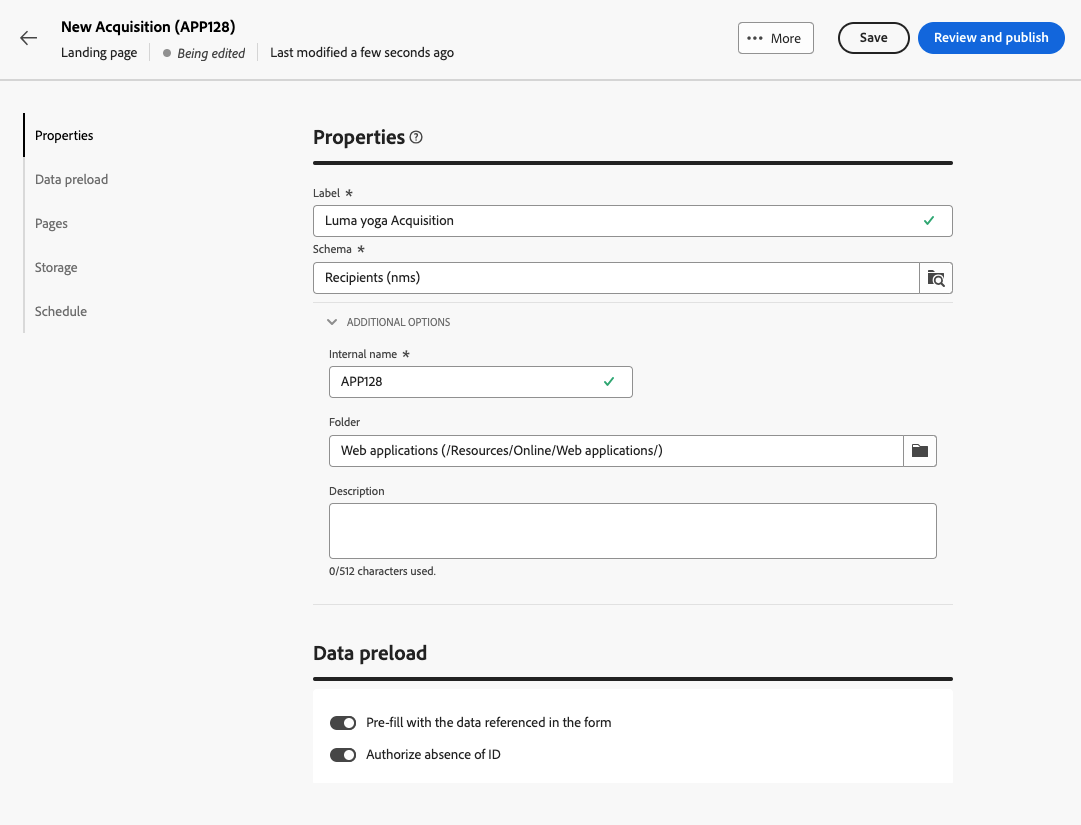
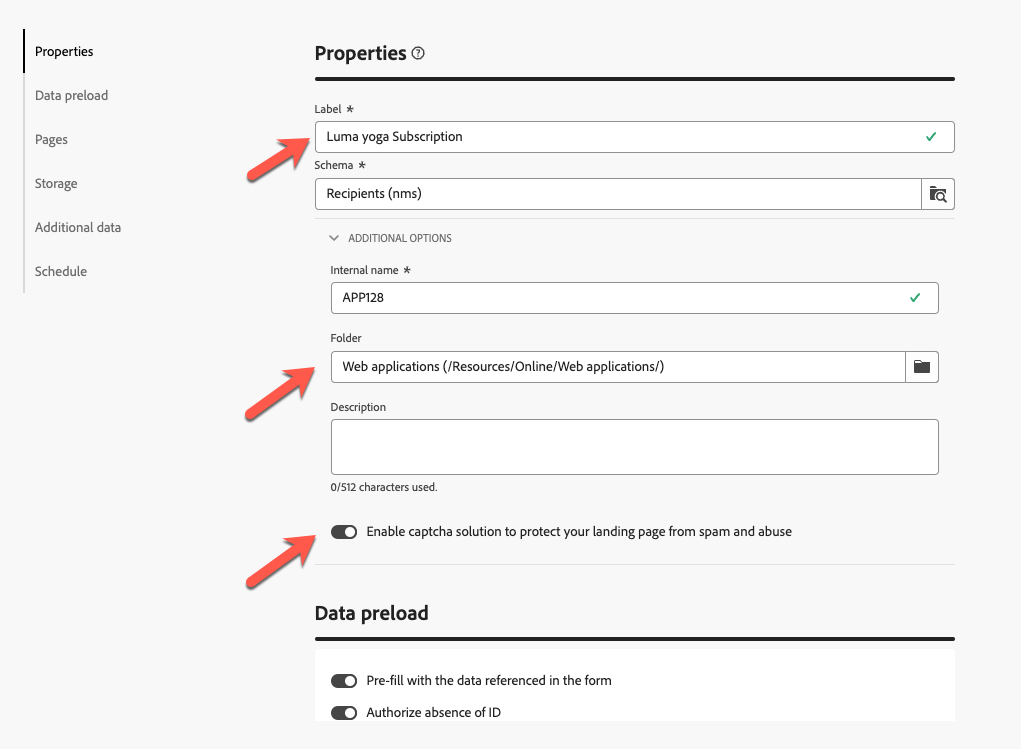
Update

diff --git a/help/v8/landing-pages/create-lp.md b/help/v8/landing-pages/create-lp.md
@@ -91,8 +91,13 @@ To create a landing page, follow these steps:
 1. Fill in the **[!UICONTROL Properties]** fields such as the label.
 
     By default, landing pages are stored in the **[!UICONTROL Web applications]** folder. You can change it by browsing to the desired location in the **[!UICONTROL Additional options]**. [Learn how to work with folders](../get-started/permissions.md#folders)
+    You can find the captcha settings in the **[!UICONTROL Additional options]** also. Activate the **[!UICONTROL Additional Enable captcha solution]** toggle to protect your landing page from spam and abuse.
 
     ![](assets/lp-properties.png){zoomable="yes"}
+
+    To check the captcha settings, click on **[!UICONTROL Review and publish]** button, and **[!UICONTROL Simulate content]**. When submitting the form, you see the captcha widget working during validation as below.
+
+    ![](assets/lp-captcha.png){zoomable="yes"}
 
 1. In the **[!UICONTROL Data preload]** section, the two options below are available:
 
